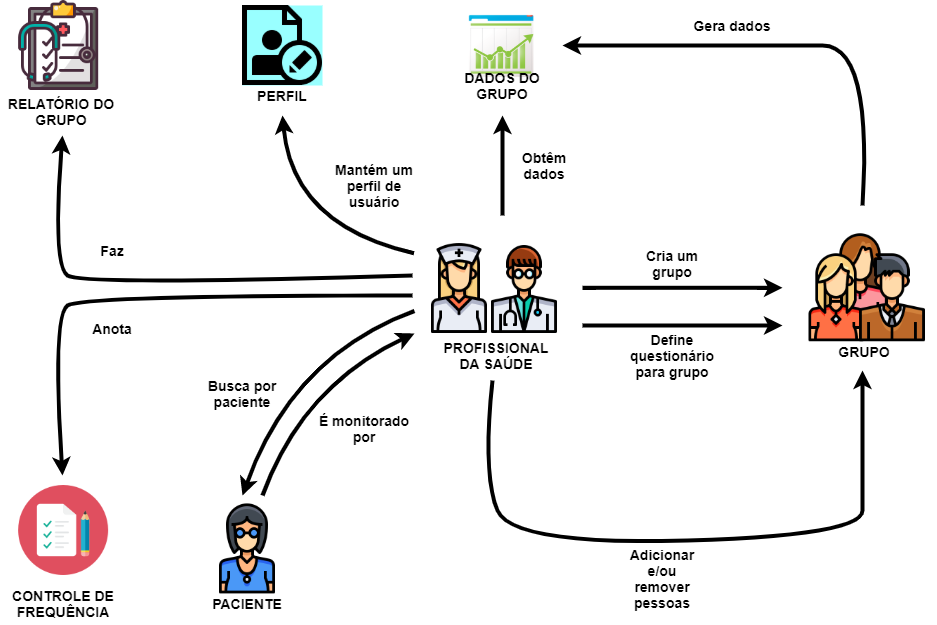
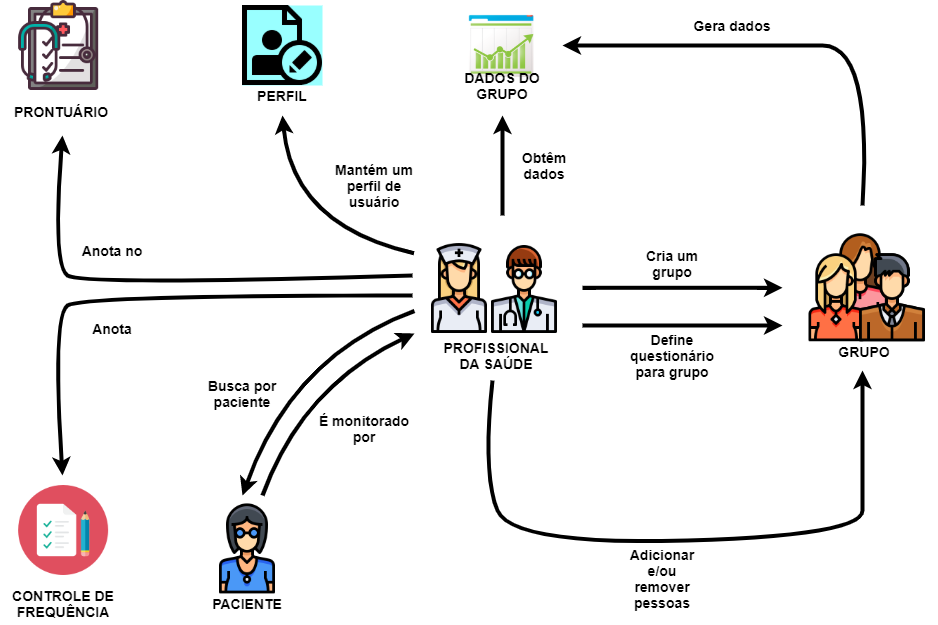
Docs/ Adcionando versão 0.2 do rich picture de paciente

diff --git a/docs/rich_picture.md b/docs/rich_picture.md
@@ -8,6 +8,7 @@
 | 09/09/2020 | 0.4 | Adição do Rich Picture de cenário atual | [Rodrigo Dadamos](https://github.com/Rdadamos) |
 | 09/09/2020 | 0.5 | Evolução do Rich Picture de cenário atual | [Rodrigo Dadamos](https://github.com/Rdadamos) |
 | 10/09/2020 | 0.6 | Evolução do rich picture profissional da saúde | [Gustavo Carvalho](https://github.com/gustavocarvalho1002) |
+| 10/09/2020 | 0.7 | Evolução do rich picture do paciente | [Gustavo Carvalho](https://github.com/gustavocarvalho1002) |
 
 Observação: este artefato foi elaborado durante a realização do <a href="https://unbarqdsw.github.io/2020.1_G5_Diario_da_Saude/design_sprint/">Design Sprint</a>.
 
@@ -36,6 +37,8 @@ Observação: este artefato foi elaborado durante a realização do <a href="htt
 ### Paciente
 ##### *versão 0.1*
 [![rich_picutre_paciente_v0.1](./img/rich_picutre_paciente_v0.1.png)](./img/rich_picutre_paciente_v0.1.png)
+##### *versão 0.2*
+[![rich_picutre_paciente_v0.2](./img/rich_picutre_paciente_v0.2.png)](./img/rich_picutre_paciente_v0.2.png)
 ### Aplicativo
 ##### *versão 0.1*
 [![rich_picutre_aplicativo_v0.1](./img/rich_picutre_aplicativo_v0.1.png)](./img/rich_picutre_aplicativo_v0.1.png)
